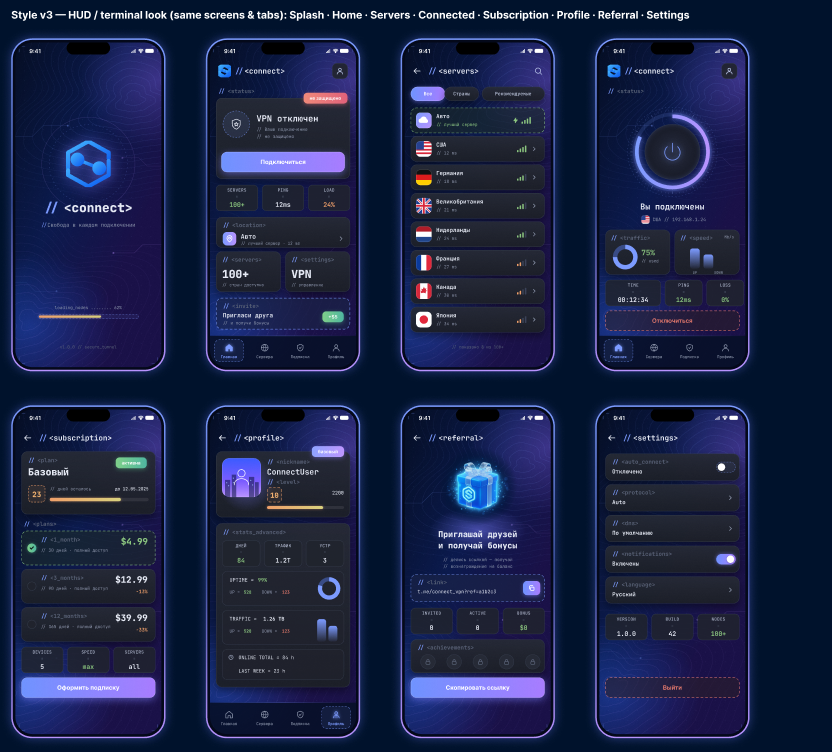
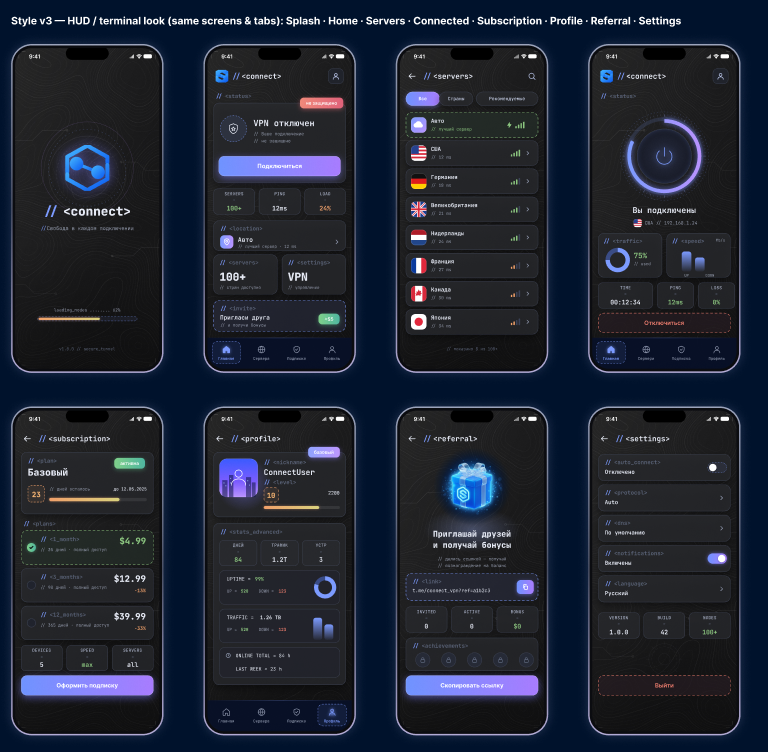
Restyle HUD background to neutral gray with real contour lines; refresh overviews
Claude-Session: https://claude.ai/code/session_01SJc26jBBW1uDSYSrNjHaJt

diff --git a/figma/connect-vpn/README.md b/figma/connect-vpn/README.md
@@ -87,3 +87,8 @@ Components (frame `HUD Components`): HUD / Background (instance on every screen 
 HUD / Tag, HUD / Chip, HUD / Badge, HUD / Button Primary, HUD / Button Dashed, HUD / Header, HUD Bottom Nav (Active = Home | Servers | Subscription | Profile).
 Tokens: collection `Connect VPN HUD / Colors` (hud/bg-0 #050E24, bg-1 #0B1A4D, panel #1F232D, panel-border #343B4C, tag-accent #7C9BFF, tag #5A6378, text #E6EAF5, text-dim #8E97AD, green #8BC57F, red #F07E6E, violet #B993FF, orange #F0A06A).
 Screenshot: `figma-overview-v3.png`.
+
+### v3 background update (gray)
+`HUD / Background` is neutral graphite (#262626 → #171718) with topographic contour lines generated from a height field (marching squares),
+faint circuit traces and corner marks. Panels are graphite frosted glass, phone frames metallic gray. Decorative ghost icons only appear on
+Splash (rings) and Settings (gear) where there is free space.
